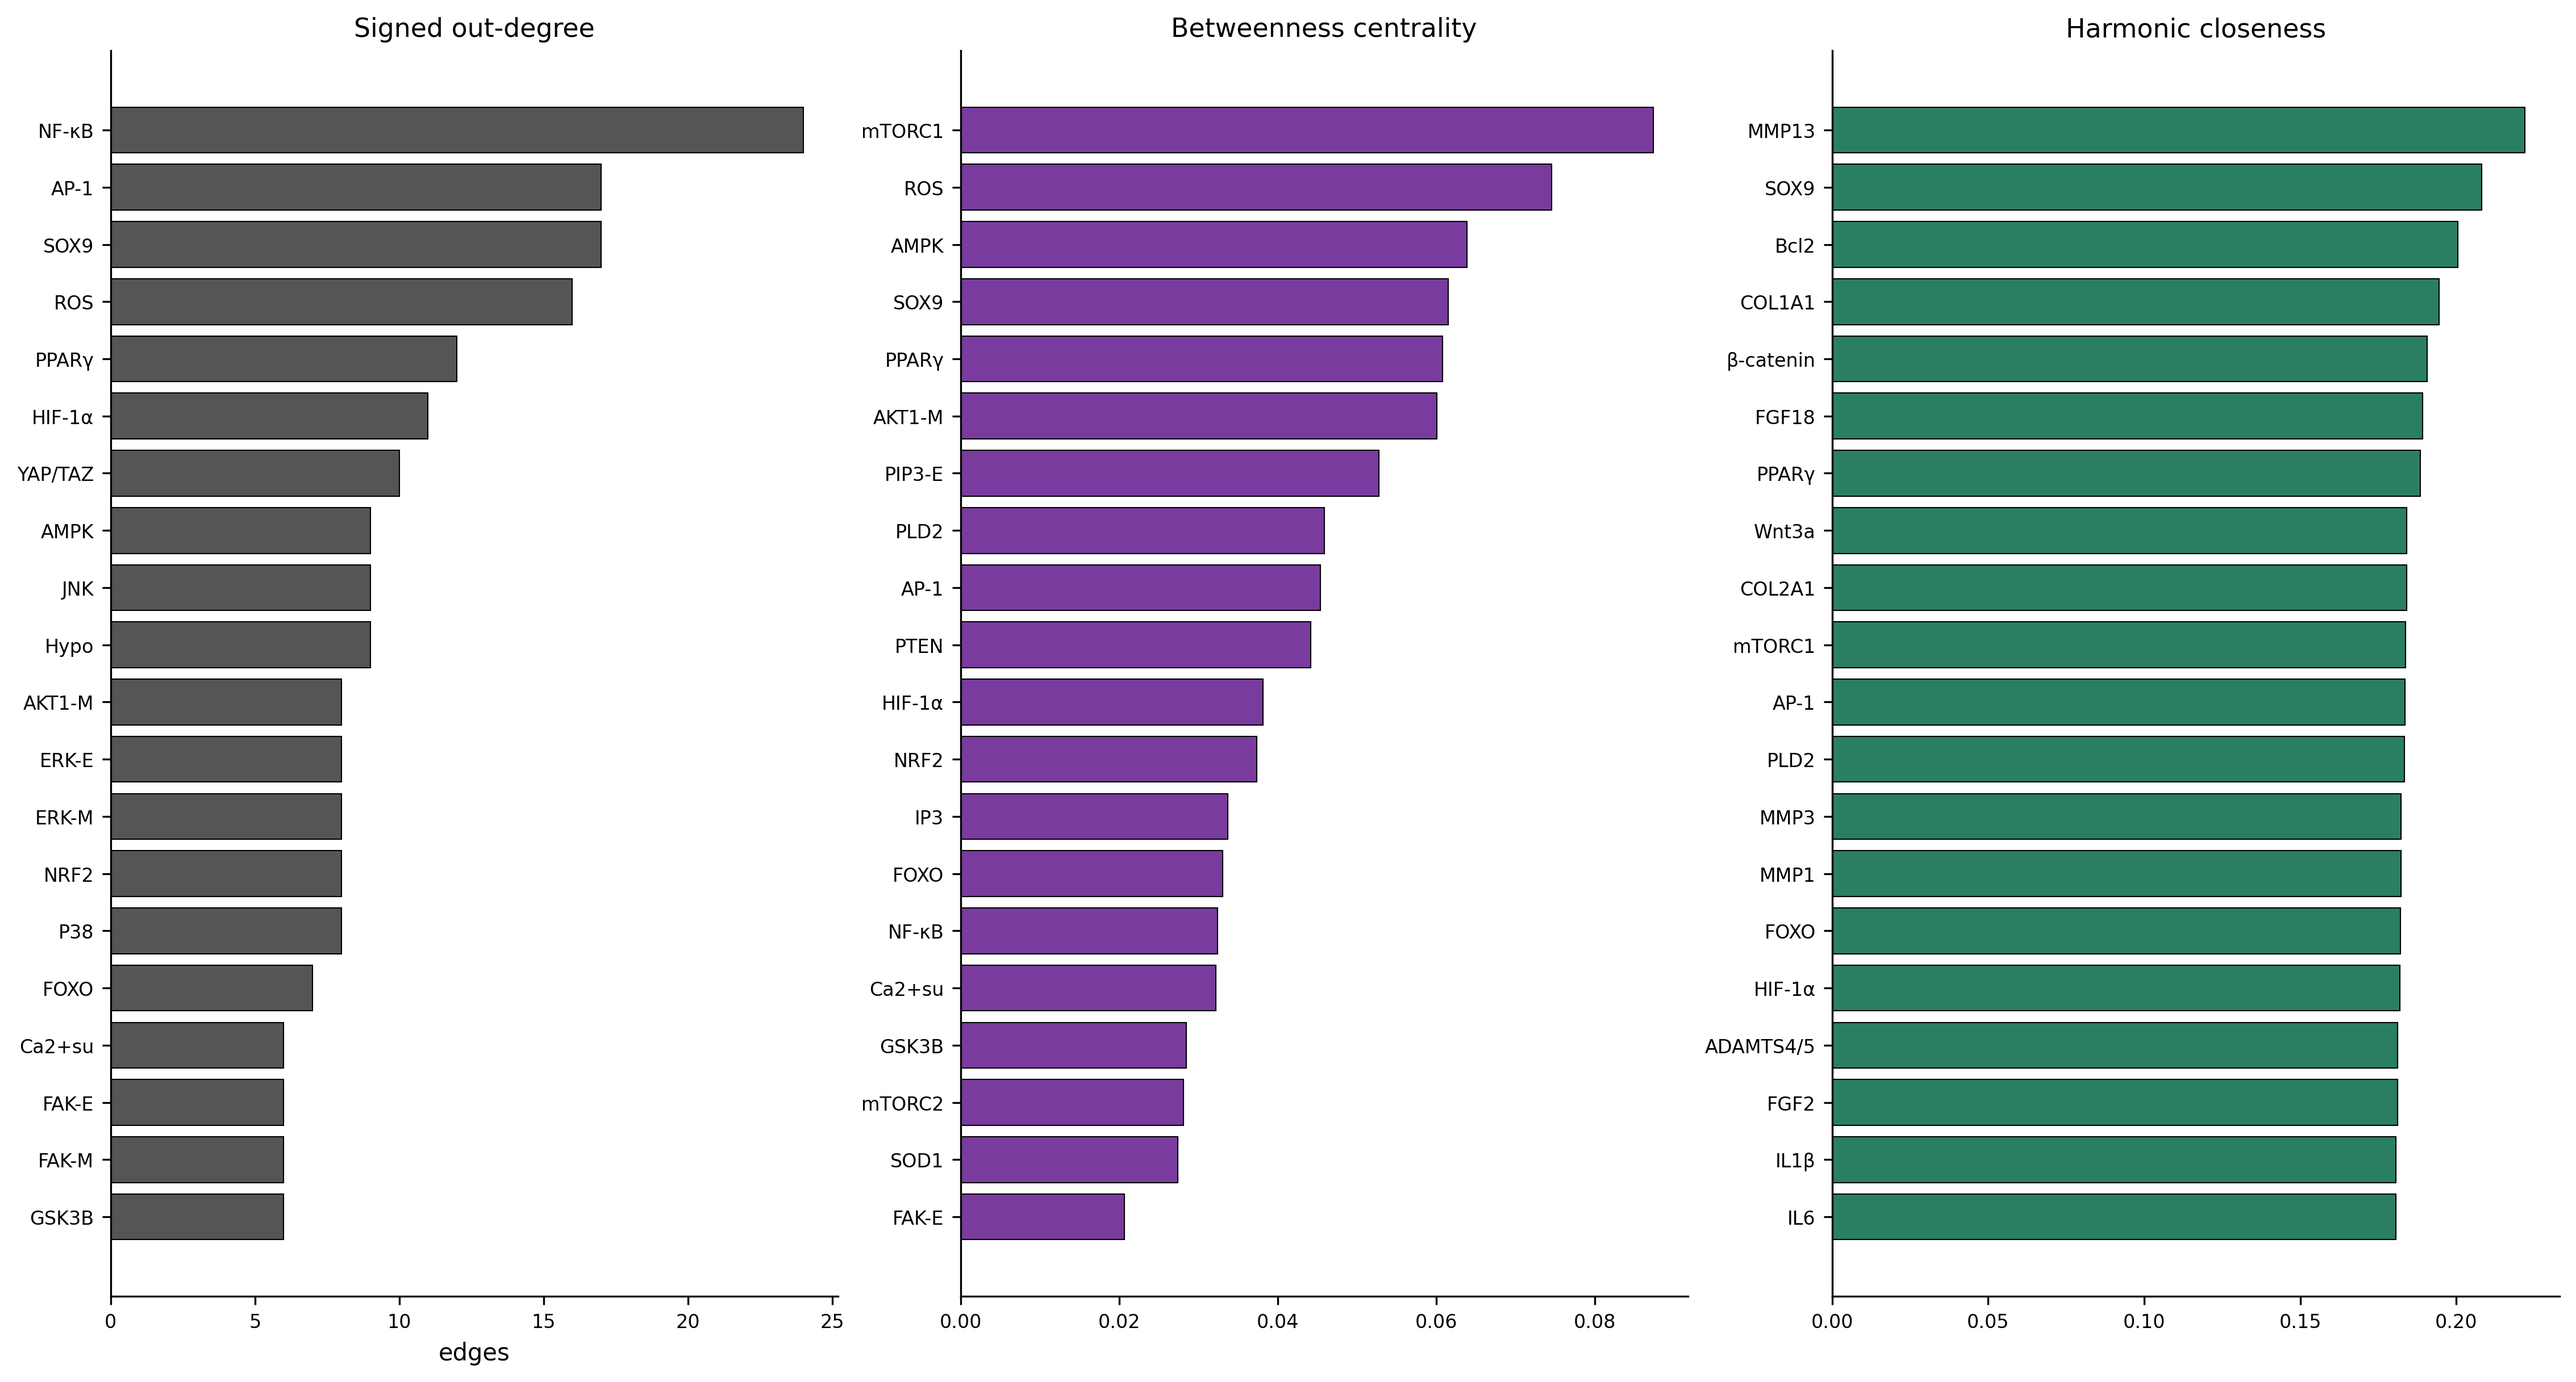
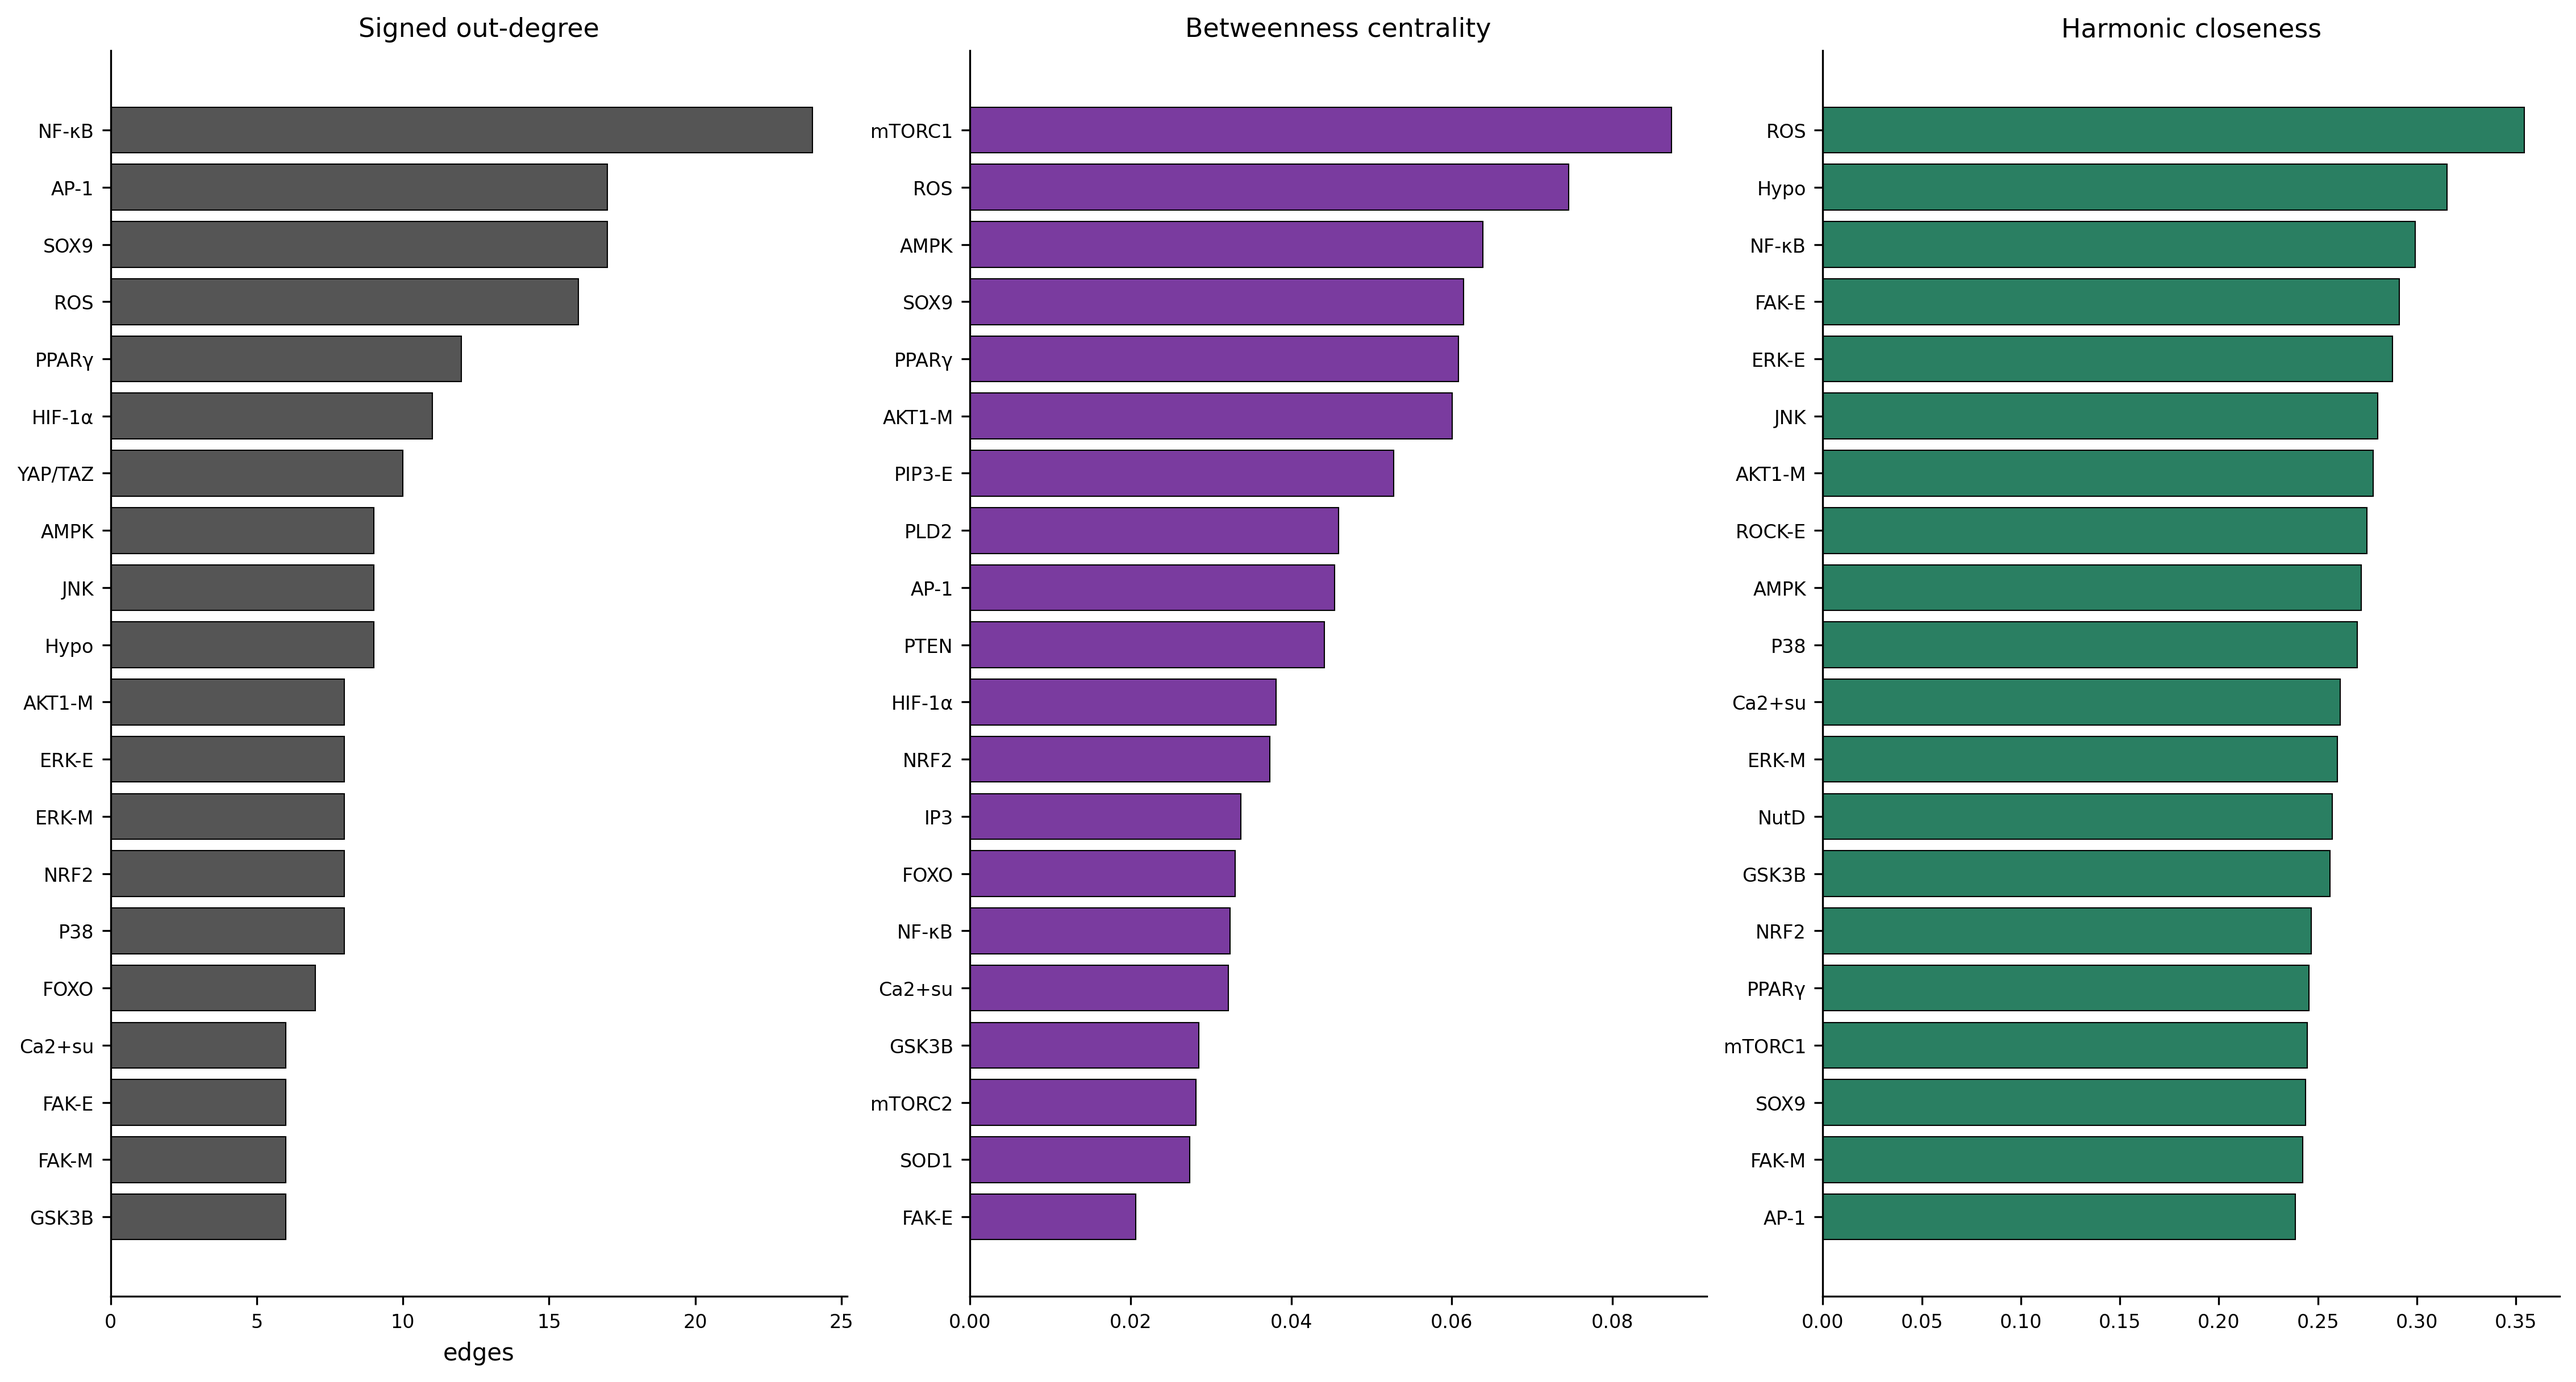
fix(topology): harmonic closeness as out-closeness to match paper Fig 3C
The paper ranks broadcasters (ROS, NF-κB) highest, which corresponds to
out-closeness (how easily a node reaches others). networkx's
harmonic_centrality(G) on a directed graph computes in-closeness by default;
calling on G.reverse() gives the paper's measure.

diff --git a/np_mt_rnm/topology.py b/np_mt_rnm/topology.py
@@ -46,8 +46,11 @@ def compute_topology(net: Network) -> TopologyMetrics:
     signed_out = {node: out_act[node] + out_inh[node] for node in G.nodes()}
 
     bet = nx.betweenness_centrality(G, normalized=True)
-    hclose = nx.harmonic_centrality(G)
-    # Normalize harmonic by (n-1) for comparability with paper-like values.
+    # Harmonic closeness (out-closeness on the directed graph): how easily
+    # a node reaches all others. Paper Fig 3C ranks broadcasters (ROS, NF-κB)
+    # highest, so we compute on G.reverse() which makes harmonic_centrality
+    # measure outgoing reach from the source node.
+    hclose = nx.harmonic_centrality(G.reverse(copy=False))
     if n > 1:
         hclose = {k: v / (n - 1) for k, v in hclose.items()}
 
